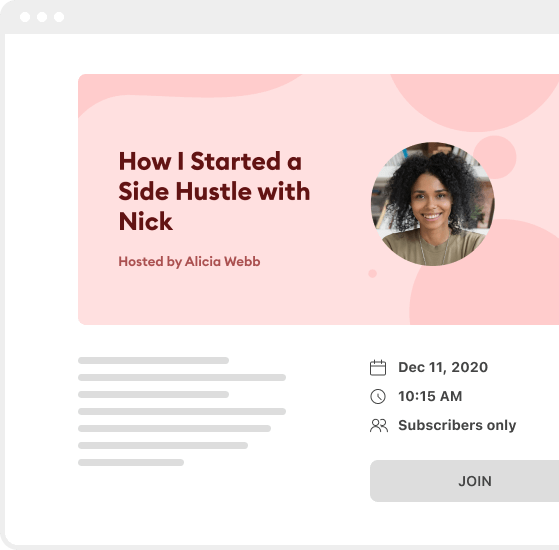
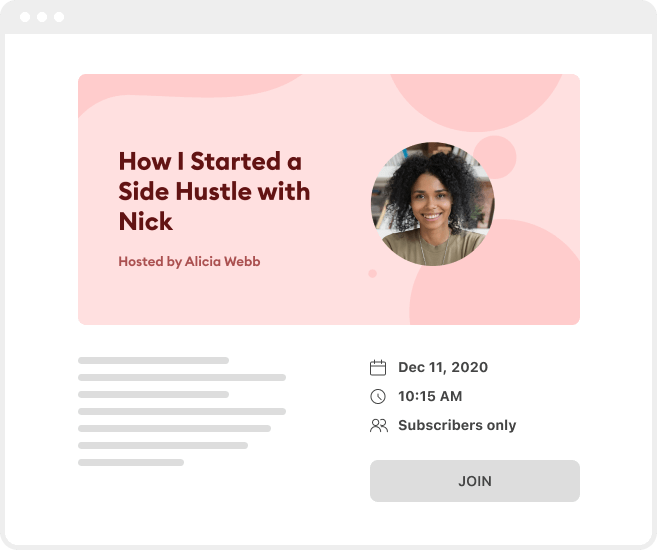
change main screen img

diff --git a/index.html b/index.html
@@ -73,7 +73,7 @@
         <div class="relative w-1/2">
           <img class="" src="./images/sub-right.jpg" alt="" />
           <img
-            class="absolute left-44 -top-16 right-0"
+            class="absolute w-[657px] h-[550px] -right-48 -top-16 "
             src="./images/main-right.png"
             alt=""
           />
